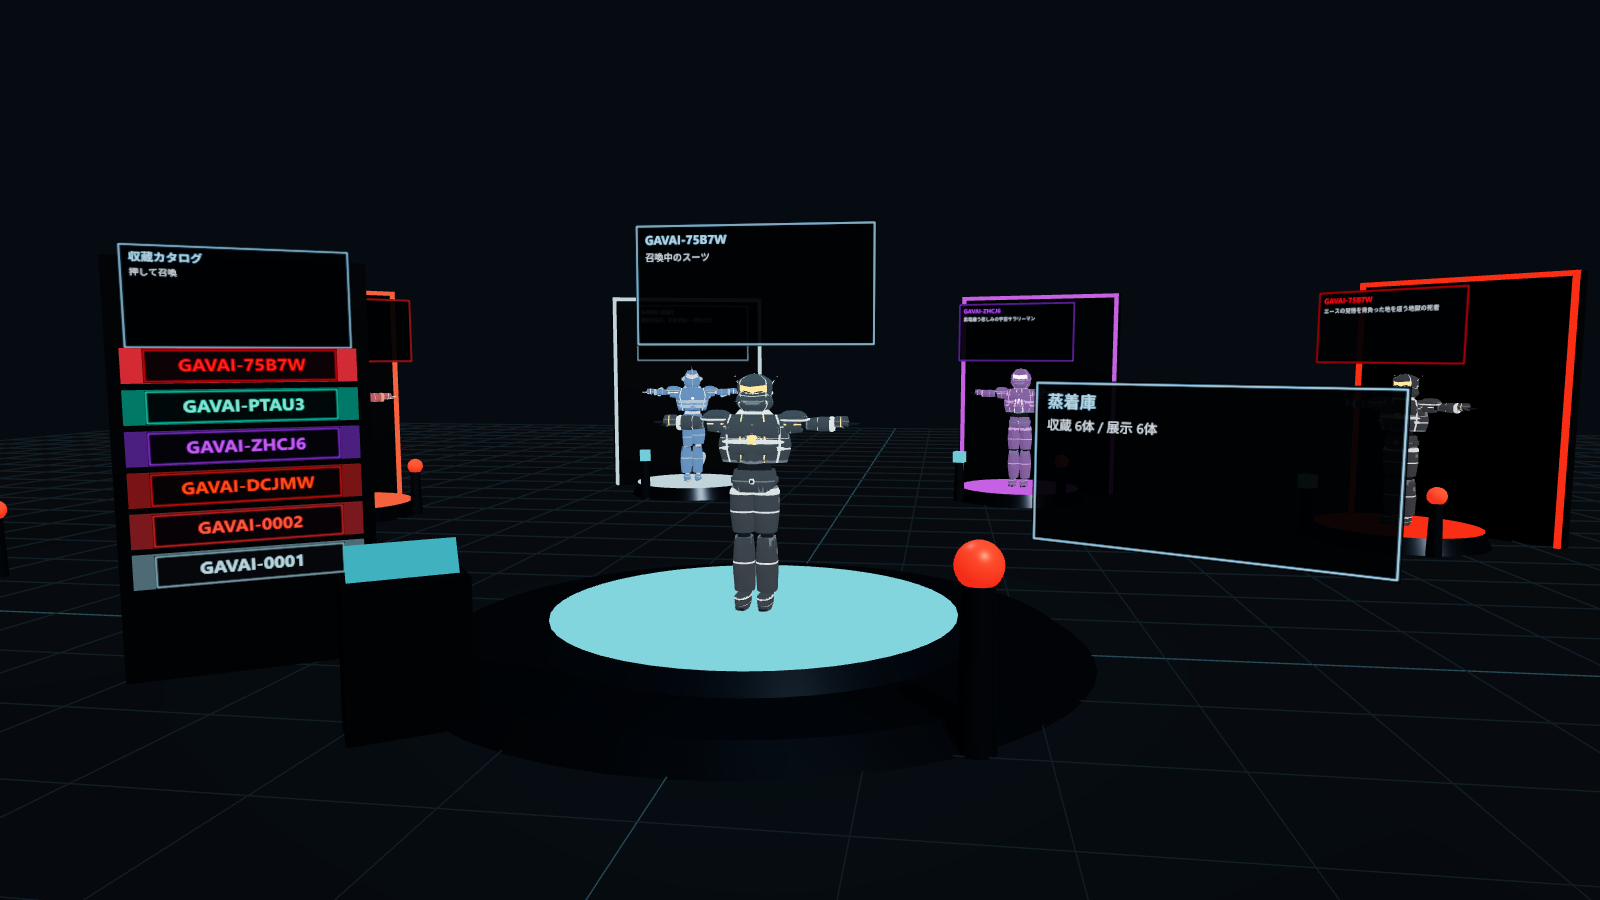
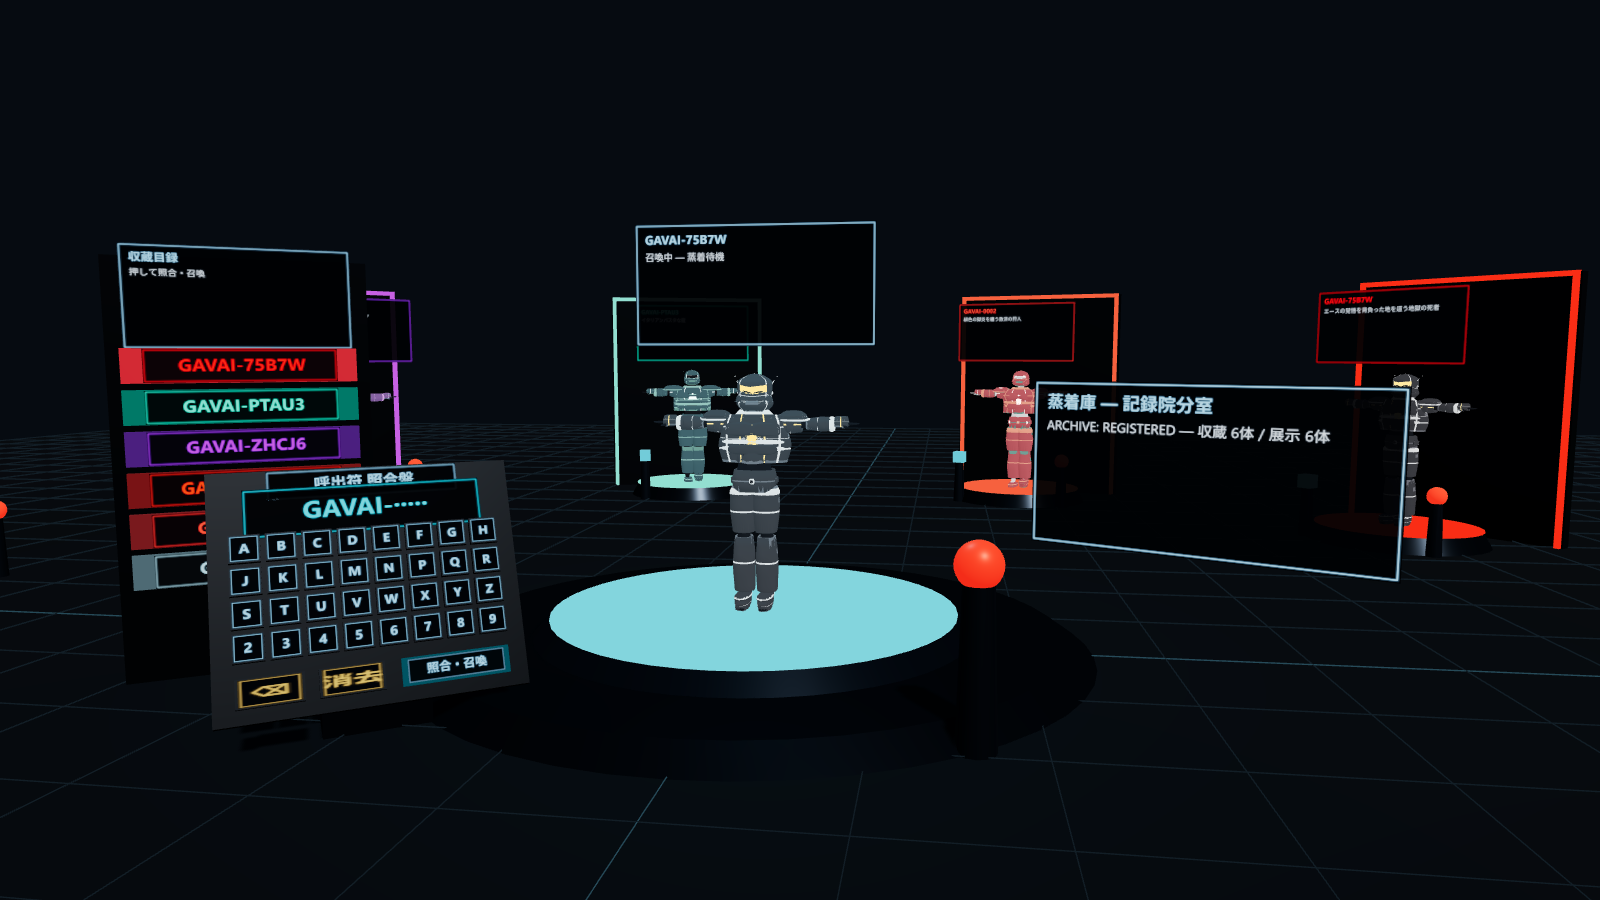
世界観整合ラウンド — 照合盤(VR呼出符バグ根治)+Lexicon統一+総合ロードマップ
■ T13根治: VRで呼出符入力するとセッションが弾かれる件
  真因 = world-componentsのTextInputはプラットフォームのDOM/システム入力UIを
  呼ぶ設計で、WebXR没入セッションはDOMキーボード表示で中断される(仕様制約)。
  → 「呼出符 照合盤」= ワールド内3Dキーパッドへ置換(字母32キー8×4+
  ⌫/消去/照合、Interactableのみで完結、VR/デスクトップ共通)。
  採番規約と同じ字母(0/O/1/I除外)で誤入力を構造排除。レンダ検証済み。
  T10(VR内3Dキーボード)もこの方式で技術確立

■ Lore Bible整合(Lexicon)
  - 分室の銘板を「蒸着庫 — 記録院分室」+ARCHIVE: REGISTERED定型句へ
  - 収蔵カタログ→収蔵目録、接続エラー→「記録院と照合不能」
  - 表記規約をROADMAPに明文化(公式語彙/鍛造は表層の通称/ログ定型句)

■ リファクタリング
  - normalizeCodeInput をweb/lib/suitに一元化(トップ・/vrの重複排除)

■ ロードマップ統合
  - docs/ROADMAP-2026-07.md 新設(正本): Lore→プロダクト対応表、
    Now/Next/Later、やらないこと、詳細台帳への参照
  - HANDOVER §8はROADMAPへのポインタ化+T13追記
  - サムネイルを照合盤入りの実景で更新

diff --git a/xrift/gallery-world/src/components/SummonKeypad.tsx b/xrift/gallery-world/src/components/SummonKeypad.tsx
@@ -1,0 +1,155 @@
+import { useState } from 'react'
+import { CanvasTexture, SRGBColorSpace } from 'three'
+import { Interactable } from '@xrift/world-components'
+import { TextPlate } from './TextPlate'
+
+// 呼出符 照合盤 — ワールド内で完結する3Dキーパッド。
+// プラットフォームのTextInputはDOM/システムキーボードを呼ぶ設計のため、
+// 没入中のVRセッションが中断される(実機で確認済みの仕様制約)。
+// InteractableのキーだけならVR/デスクトップの双方でそのまま押せる
+
+// 呼出符の字母(0/O/1/I除外の32字 — forgeの採番規約と同一)
+const KEY_ROWS = ['ABCDEFGH', 'JKLMNPQR', 'STUVWXYZ', '23456789']
+const PITCH = 0.185
+const CODE_LEN = 5
+
+// キー刻印のテクスチャは字母ごとに1枚を共有(32枚×128px)
+const texCache = new Map<string, CanvasTexture>()
+function keyTexture(label: string, accent: string): CanvasTexture {
+  const cacheKey = `${label}|${accent}`
+  const hit = texCache.get(cacheKey)
+  if (hit) return hit
+  const can = document.createElement('canvas')
+  can.width = 128
+  can.height = 128
+  const g = can.getContext('2d')!
+  g.fillStyle = 'rgba(8, 15, 22, 0.96)'
+  g.fillRect(0, 0, 128, 128)
+  g.strokeStyle = accent
+  g.lineWidth = 3
+  g.strokeRect(5, 5, 118, 118)
+  g.fillStyle = accent
+  g.font = 'bold 64px "Segoe UI", "Hiragino Sans", sans-serif'
+  g.textAlign = 'center'
+  g.textBaseline = 'middle'
+  g.fillText(label, 64, 68)
+  const tex = new CanvasTexture(can)
+  tex.colorSpace = SRGBColorSpace
+  texCache.set(cacheKey, tex)
+  return tex
+}
+
+interface KeyCapProps {
+  id: string
+  label: string
+  position: [number, number, number]
+  onPress: () => void
+  hint?: string
+  accent?: string
+  width?: number
+}
+
+function KeyCap({ id, label, position, onPress, hint, accent = '#9fdcff', width = 0.16 }: KeyCapProps) {
+  return (
+    <Interactable id={id} onInteract={onPress} interactionText={hint ?? label}>
+      <group position={position}>
+        <mesh castShadow>
+          <boxGeometry args={[width, 0.16, 0.03]} />
+          <meshStandardMaterial color="#101a24" metalness={0.5} roughness={0.5} />
+        </mesh>
+        <mesh position={[0, 0, 0.017]}>
+          <planeGeometry args={[width * 0.92, 0.147]} />
+          <meshBasicMaterial map={keyTexture(label, accent)} transparent />
+        </mesh>
+      </group>
+    </Interactable>
+  )
+}
+
+interface SummonKeypadProps {
+  onSummon: (code: string) => void
+}
+
+export function SummonKeypad({ onSummon }: SummonKeypadProps) {
+  const [input, setInput] = useState('')
+  const press = (ch: string) => setInput((s) => (s.length < CODE_LEN ? s + ch : s))
+  const ready = input.length === CODE_LEN
+
+  return (
+    <group position={[-1.9, 0, 2.0]} rotation={[0, Math.PI / 5, 0]}>
+      {/* 照合盤の筐体(手前へ傾けた操作面) */}
+      <mesh position={[0, 0.28, -0.06]} castShadow>
+        <boxGeometry args={[0.6, 0.56, 0.3]} />
+        <meshStandardMaterial color="#141e28" metalness={0.6} roughness={0.45} />
+      </mesh>
+      <group position={[0, 0.92, 0]} rotation={[-0.42, 0, 0]}>
+        <mesh position={[0, -0.05, -0.045]}>
+          <boxGeometry args={[1.66, 1.42, 0.06]} />
+          <meshStandardMaterial color="#0c141c" metalness={0.5} roughness={0.5} />
+        </mesh>
+        <TextPlate lines={['呼出符 照合盤']} width={1.05} aspect={6} position={[0, 0.56, 0.01]} />
+        {/* 打刻中の符号表示 */}
+        <TextPlate
+          lines={[`GAVAI-${input.padEnd(CODE_LEN, '·')}`]}
+          width={1.3}
+          aspect={4.5}
+          position={[0, 0.4, 0.01]}
+          accent="#38d9f1"
+        />
+        {/* 字母キー 8×4 */}
+        {KEY_ROWS.map((row, r) =>
+          row.split('').map((ch, c) => (
+            <KeyCap
+              key={ch}
+              id={`key-${ch}`}
+              label={ch}
+              position={[(c - 3.5) * PITCH, 0.2 - r * PITCH, 0.01]}
+              onPress={() => press(ch)}
+            />
+          )),
+        )}
+        {/* 操作行: 一字削除 / 全消去 / 照合(5文字で有効) */}
+        <KeyCap
+          id="key-back"
+          label="⌫"
+          hint="一字削除"
+          accent="#d9b45f"
+          position={[-0.55, -0.6, 0.01]}
+          width={0.34}
+          onPress={() => setInput((s) => s.slice(0, -1))}
+        />
+        <KeyCap
+          id="key-clear"
+          label="消去"
+          hint="全て消去"
+          accent="#d9b45f"
+          position={[-0.14, -0.6, 0.01]}
+          width={0.34}
+          onPress={() => setInput('')}
+        />
+        <Interactable
+          id="key-submit"
+          onInteract={() => {
+            if (!ready) return
+            onSummon(`GAVAI-${input}`)
+            setInput('')
+          }}
+          interactionText={ready ? `GAVAI-${input} を照合して召喚` : '呼出符は5文字'}
+          enabled={ready}
+        >
+          <group position={[0.42, -0.6, 0.01]}>
+            <mesh castShadow>
+              <boxGeometry args={[0.6, 0.16, 0.03]} />
+              <meshStandardMaterial
+                color={ready ? '#173242' : '#101a24'}
+                emissive="#38d9f1"
+                emissiveIntensity={ready ? 0.6 : 0.12}
+              />
+            </mesh>
+            <TextPlate lines={['照合・召喚']} width={0.54} aspect={4} position={[0, 0, 0.017]} accent="#9fdcff" />
+          </group>
+        </Interactable>
+      </group>
+    </group>
+  )
+}

diff --git a/xrift/gallery-world/src/components/CenterStage.tsx b/xrift/gallery-world/src/components/CenterStage.tsx
@@ -1,6 +1,7 @@
-import { Interactable, TextInput } from '@xrift/world-components'
-import { normalizeCode, SUIT_FACING, type GalleryEntry } from '~/lib/gallery'
+import { Interactable } from '@xrift/world-components'
+import { SUIT_FACING, type GalleryEntry } from '~/lib/gallery'
 import { useSuit, useHenshin } from './SuitExhibit'
+import { SummonKeypad } from './SummonKeypad'
 import { TextPlate } from './TextPlate'
 
 interface CenterStageProps {
@@ -43,7 +44,7 @@ export function CenterStage({
         {vrm && <primitive object={vrm.scene} />}
       </group>
       {code && (
-        <TextPlate lines={[code, '召喚中のスーツ']} position={[0, 2.7, 0]} width={1.8} />
+        <TextPlate lines={[code, '召喚中 — 蒸着待機']} position={[0, 2.7, 0]} width={1.8} />
       )}
 
       {/* 収蔵サマリ(ラフなメニュー — 台座右脇) */}
@@ -71,30 +72,10 @@ export function CenterStage({
         </group>
       </Interactable>
 
-      {/* 召喚コンソール(呼出符の手入力) */}
-      <TextInput
-        id="summon-console"
-        placeholder="呼出符 5文字 (例: PTAU3)"
-        maxLength={12}
-        interactionText="呼出符を入力"
-        onSubmit={(value) => {
-          const normalized = normalizeCode(value)
-          if (normalized) onSummon(normalized)
-        }}
-      >
-        <group position={[-1.7, 0, 2.0]} rotation={[0, Math.PI / 5, 0]}>
-          <mesh position={[0, 0.45, 0]} castShadow>
-            <boxGeometry args={[0.7, 0.9, 0.35]} />
-            <meshStandardMaterial color="#141e28" metalness={0.6} roughness={0.4} />
-          </mesh>
-          <mesh position={[0, 0.93, -0.02]} rotation={[-0.5, 0, 0]}>
-            <boxGeometry args={[0.62, 0.36, 0.04]} />
-            <meshStandardMaterial
-              color="#0a1620" emissive="#38d9f1" emissiveIntensity={0.5}
-            />
-          </mesh>
-        </group>
-      </TextInput>
+      {/* 呼出符 照合盤 — ワールド内キーパッド。
+          プラットフォームのTextInputはDOMキーボードを呼び、VRの没入セッションを
+          中断させる(実機確認済みの仕様制約)ため、Interactableキーで完結させる */}
+      <SummonKeypad onSummon={onSummon} />
 
       {/* 収蔵カタログ(プルダウン相当 — 選んで召喚するボード) */}
       <group position={[-3.1, 0, 1.4]} rotation={[0, 0.6, 0]}>
@@ -102,7 +83,7 @@ export function CenterStage({
           <boxGeometry args={[1.5, 2.7, 0.08]} />
           <meshStandardMaterial color="#0c141c" metalness={0.5} roughness={0.5} />
         </mesh>
-        <TextPlate lines={['収蔵カタログ', '押して召喚']} position={[0, 2.55, 0.02]} width={1.3} />
+        <TextPlate lines={['収蔵目録', '押して照合・召喚']} position={[0, 2.55, 0.02]} width={1.3} />
         {entries.slice(0, CATALOG_MAX).map((entry, i) => {
           const accent = entry.palette?.emissive ?? entry.palette?.accent ?? '#9fdcff'
           const selected = entry.code === code

diff --git a/xrift/gallery-world/src/World.tsx b/xrift/gallery-world/src/World.tsx
@@ -60,7 +60,7 @@ function ShotCamera() {
 // 壁面アルコーブ(訪問ごとにシャッフル)には台座ごとの[蒸着][召喚]ボタン、
 // 中央では呼出符の手入力+収蔵カタログから選んで召喚できる
 export const World: React.FC<WorldProps> = ({ position = [0, 0, 0], scale = 1 }) => {
-  const [infoLines, setInfoLines] = useState<string[]>(['蒸着庫', '照合中…'])
+  const [infoLines, setInfoLines] = useState<string[]>(['蒸着庫 — 記録院分室', '照合中…'])
   const [entries, setEntries] = useState<GalleryEntry[]>([])
   const [alcoves, setAlcoves] = useState<GalleryEntry[]>([])
   const [latestCode, setLatestCode] = useState<string | null>(null)
@@ -78,11 +78,14 @@ export const World: React.FC<WorldProps> = ({ position = [0, 0, 0], scale = 1 })
         setLatestCode(sorted[0]?.code ?? null)
         setAlcoves(shuffled(gallery).slice(0, ALCOVE_COUNT))
         setInfoLines([
-          '蒸着庫',
-          `収蔵 ${gallery.length}体 / 展示 ${Math.min(gallery.length, ALCOVE_COUNT)}体`,
+          '蒸着庫 — 記録院分室',
+          `ARCHIVE: REGISTERED — 収蔵 ${gallery.length}体 / 展示 ${Math.min(gallery.length, ALCOVE_COUNT)}体`,
         ])
       } catch (e) {
-        setInfoLines(['蒸着庫', `✗ 収蔵庫に接続できない: ${String((e as Error)?.message ?? e)}`])
+        setInfoLines([
+          '蒸着庫 — 記録院分室',
+          `✗ 記録院と照合不能: ${String((e as Error)?.message ?? e)}`,
+        ])
       }
     })()
   }, [])

diff --git a/web/app/page.jsx b/web/app/page.jsx
@@ -1,7 +1,7 @@
 'use client';
 import { useEffect, useState } from 'react';
 import { useRouter } from 'next/navigation';
-import { galleryUrl } from '../lib/suit';
+import { galleryUrl, normalizeCodeInput as normalize } from '../lib/suit';
 
 export default function Home() {
   const [code, setCode] = useState('');
@@ -14,8 +14,6 @@ export default function Home() {
       .then((items) => Array.isArray(items) && setGallery(items.slice(0, 8)))
       .catch(() => {});
   }, []);
-  // 入力はGAVAI-の続き5文字だけ。フル呼出符を貼り付けても自動で剥がす
-  const normalize = (v) => v.toUpperCase().replace(/^GAVAI-?/, '').replace(/[^A-Z0-9]/g, '').slice(0, 5);
   const go = (e) => {
     e.preventDefault();
     const c = normalize(code);

diff --git a/web/app/vr/page.jsx b/web/app/vr/page.jsx
@@ -4,7 +4,7 @@
 // 蒸着チャンバー(/ar/<code>)へ飛ぶ。鍛造記録からのワンタップ入場も可。
 import { useEffect, useState } from 'react';
 import { useRouter } from 'next/navigation';
-import { galleryUrl } from '../../lib/suit';
+import { galleryUrl, normalizeCodeInput as normalize } from '../../lib/suit';
 
 export default function VrGate() {
   const [code, setCode] = useState('');
@@ -18,7 +18,6 @@ export default function VrGate() {
       .catch(() => {});
   }, []);
 
-  const normalize = (v) => v.toUpperCase().replace(/^GAVAI-?/, '').replace(/[^A-Z0-9]/g, '').slice(0, 5);
   const go = (e) => {
     e.preventDefault();
     const c = normalize(code);

diff --git a/web/lib/suit.js b/web/lib/suit.js
@@ -6,6 +6,11 @@ const SUPA = (process.env.NEXT_PUBLIC_SUPABASE_URL || '')
   .replace(/\/(rest|storage|auth)\/v1\/?$/, '')
   .replace(/\/+$/, '') || null;
 
+// 呼出符入力の正規化(GAVAI-プレフィックスは枠側が持つ)。
+// 貼り付け・小文字・全角混じりに耐える共通規約 — 全入力欄でこれを使う
+export const normalizeCodeInput = (v) =>
+  v.toUpperCase().replace(/^GAVAI-?/, '').replace(/[^A-Z0-9]/g, '').slice(0, 5);
+
 export function packageBase(code) {
   const safe = String(code || '').toUpperCase().replace(/[^A-Z0-9-]/g, '');
   if (SUPA) return `${SUPA}/storage/v1/object/public/suits/${safe}`;

diff --git a/docs/ROADMAP-2026-07.md b/docs/ROADMAP-2026-07.md
@@ -1,0 +1,88 @@
+# 蒸着執行録 — 総合ロードマップ(正本 / 2026-07-20)
+
+散在していたロードマップ(HANDOVER §8 / ar-tracking / xrift-gallery / blueprint-generator)を
+**Lore Bible の世界観を背骨に**統合した正本。個別詳細は §6 の参照先へ。
+
+---
+
+## 0. 世界観との対応表(Lore → プロダクト)
+
+Lore Bible の核: **正規起動 = 設計 × 適合 × 承認 × 記録 × 封印**。逸脱の結果は拒否のみ。
+価値は強さではなく**整合性(Integrity)**。組織は冷たく、熱は運用者の誓いにだけ宿る。
+
+| Lore(制度) | プロダクトの現在の実装 | 状態 |
+|---|---|---|
+| 公示(POSTED) | 言葉の入力・ジョブ受理(/forge) | ✅ |
+| 設計局・DB-AI(BLUEPRINT: ISSUED) | Gemini解釈→ArmorBlueprint(必須本線) | ✅ |
+| 適合審査局(FIT AUDIT: PASS) | BVH実測の適合審査+conform(18/18) | ✅ |
+| 蒸着(DEPOSITION: COMPLETE) | Blenderヘッドレス成形 | ✅ |
+| 封印・記録院(SEAL/ARCHIVE) | Supabase格納+呼出符採番+gallery.json | ✅(演出は未) |
+| 召喚・再蒸着 | /s /mirror /ar + 音声認証「蒸着」 | ✅ |
+| 記録院分室(公開アーカイブ) | XRiftワールド「蒸着庫」 | ✅試験中 |
+| 拒否(REFUSED: [CODE]) | 一般エラー表示のまま | ❌未 |
+| 物証(認可書・蒸着ログ・封印紋) | manifest+fit_summaryのみ | ❌未 |
+| 誓い(Oath)→意匠の規律 | 未実装 | ❌未 |
+
+### 表記規約(Lexicon運用の決定)
+- 公式語彙: **公示 / 適合 / 承認 / 照合 / 封印 / 収蔵 / 記録院 / 召喚 / 蒸着 / 拒否 / 呼出符**
+- 「**鍛造**」は表層の通称(体験の入口語)として存続。制度文脈では蒸着/設計発行を使う
+- ログ定型句(`STATUS:` `FIT AUDIT:` `SEAL:` `ARCHIVE:`)は英字小書きで添える(既にUI各所で運用)
+- 文体: 断定・情緒排除・禁止と許可の明示。コメディ禁止(Lore 1.3)
+
+---
+
+## 1. 現在地(2026-07-20)
+
+- **本番一気通貫**: 言葉→設計→適合→蒸着→収蔵→呼出符→Web/ミラー/VR/XRift分室
+- XRift「蒸着庫」= A案(実行時fetch)公式成立。Phase 2.1(召喚台/目録/台座ボタン)+照合盤
+- 既知の一級課題: **フォルム収斂**(直近スーツのシルエットが同型)
+
+## 2. Now(次の1〜2ラウンド)
+
+1. **フォルム収斂のエンジン修正**【体験の核】
+   route B(Gemini)設計図が形状DNA(シルエット族/断面/クレスト)を埋めない時、
+   修復層が毎回同じ既定値で補完している疑い。意図文シードの形状変奏をroute B修復層へ注入
+   → 要 forge 3段階再デプロイ。検証: 同語再現性と異語分散のA/B
+2. **XRift分室 v2.2 実機確認** — 照合盤(VRでセッションを蹴らないか)・向き・台座ボタン・
+   複数人同期 → 合格なら【試験中】解除の判断
+3. **公開ベータの安全枠**: recall_codes RLS(SQL1行)/ 鍵ローテーション(Gemini・Supabase
+   service・Sakura)/ 独自ドメインproxy(表示のユーザーライク化+CDN+差し替え自由)
+4. **実写ミラーAR 計測ラウンド3**: 正対・鏡像対応・背景消去の実機検証 →
+   ImageSegmenter導入判断(詳細: ar-tracking-roadmap)
+
+## 3. Next(公開ベータまで)
+
+- **物証の生成(Lore 9.1 生成スロット)**: 認可書・蒸着ログ(監査文体)・封印紋(Emblem)を
+  パッケージへ同梱 — 「保存物は物証」が世界の重みを作る
+- **拒否コードの実装**: forge失敗を `REFUSED: INCOMPLETE_PROCEDURE` 等の**拒否公示**として
+  返す(拒否=制度が守られた証拠、という演出圧)
+- **二相配達**: GLB先行→呼出符発行→VRM追送(体感5分→90秒級)
+- **武装モジュール**: 剣/盾/銃(_GEAR_WORDS検出済み)→ 紋章増幅 → 設計局AI命名
+- XRift分室: 目録のページ送り / 蒸着SE同期 / 公開設定 / world-componentsへ
+  AvatarPedestal要望・寄贈(その場変身の本命)
+- Web: 記録院ページ(全収蔵の閲覧・検索)
+
+## 4. Later(構想)
+
+- **誓い(Oath)システム**: 誓いの選択→発光の規律・封印紋の幾何に反映(Lore 4.2)。
+  エモルギア(感情原料)の色相→意匠の癖
+- **スマホ実写変身+録画**: 撮影動画→サーバ側SMPL復元→高品質変身動画の返送
+  (ar-tracking-roadmap ④)
+- VR: 照合盤の技術を/arチャンバーへ移植(T10解決)/ ギャバントリガー(T11)
+- リポジトリ公開: main統合+filter-repo(node_modules 197MiB除去)
+
+## 5. やらないこと(決定済み)
+
+- Aivisクレジットの自動追加(切れたら黙って喋らない日)
+- 実写ARの背景インペイント以上の複雑化(背景プレート+シルエットで成立)
+- コア造形のAIメッシュ生成置き換え(決定論エンジンが核。AIは解釈と物証のみ)
+
+## 6. 参照(詳細台帳)
+
+| 文書 | 中身 |
+|---|---|
+| HANDOVER-2026-07.md | システム全景・env台帳・デプロイ手順・課題台帳T1〜 |
+| ar-tracking-roadmap-2026-07.md | 実写AR強化の5候補と推奨順 |
+| xrift-gallery-plan-2026-07.md | 分室のPhase台帳・運用Q&A |
+| armor-blueprint-generator.md | エンジン文法・武装ロードマップ |
+| Lore Bible.md | 世界観の正本(Canon/Mystery/Lexicon) |
